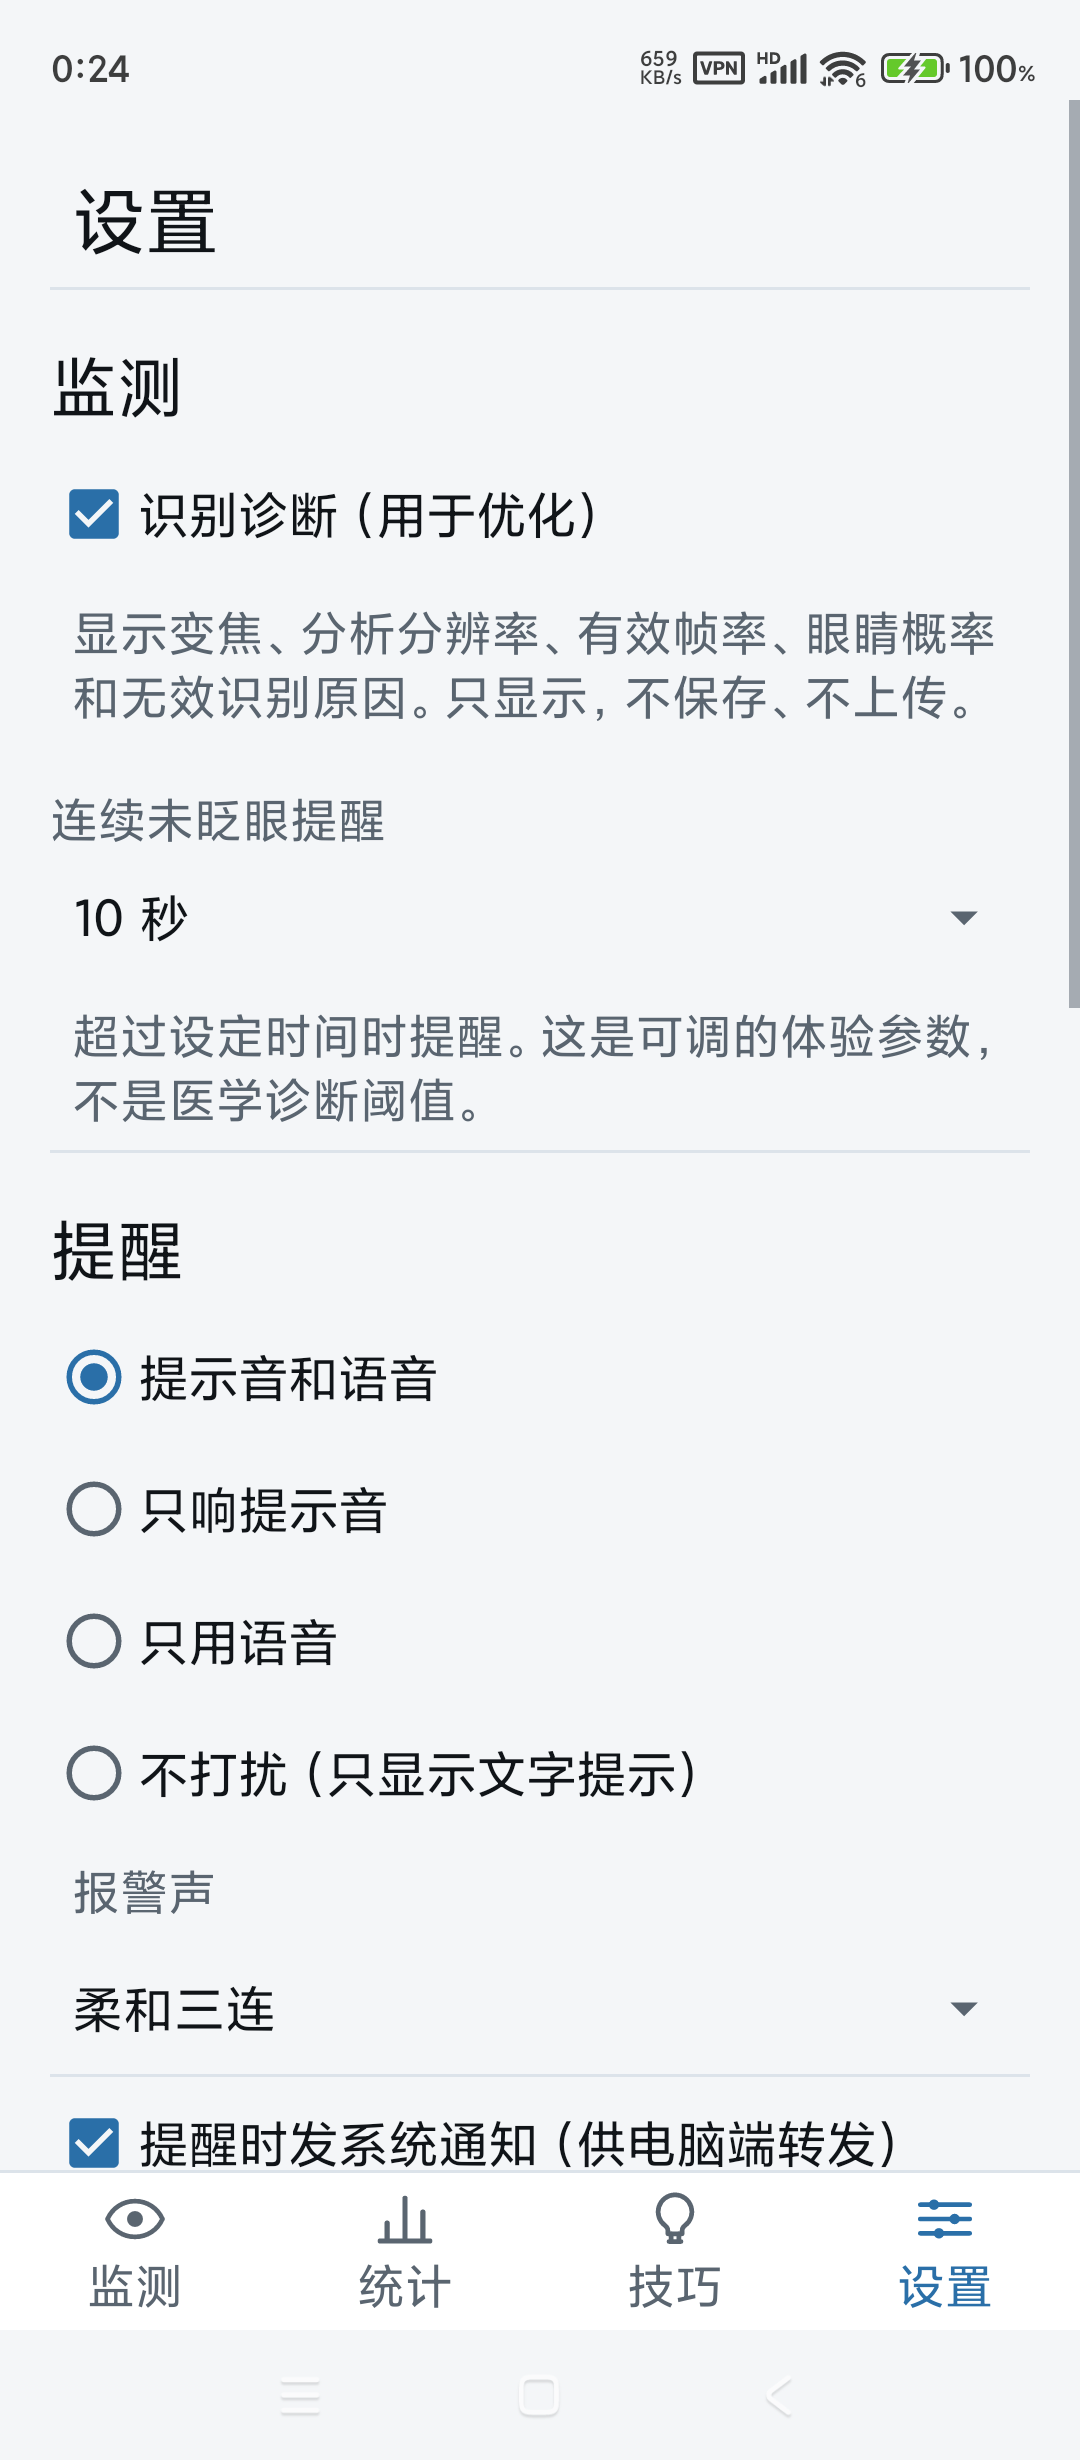
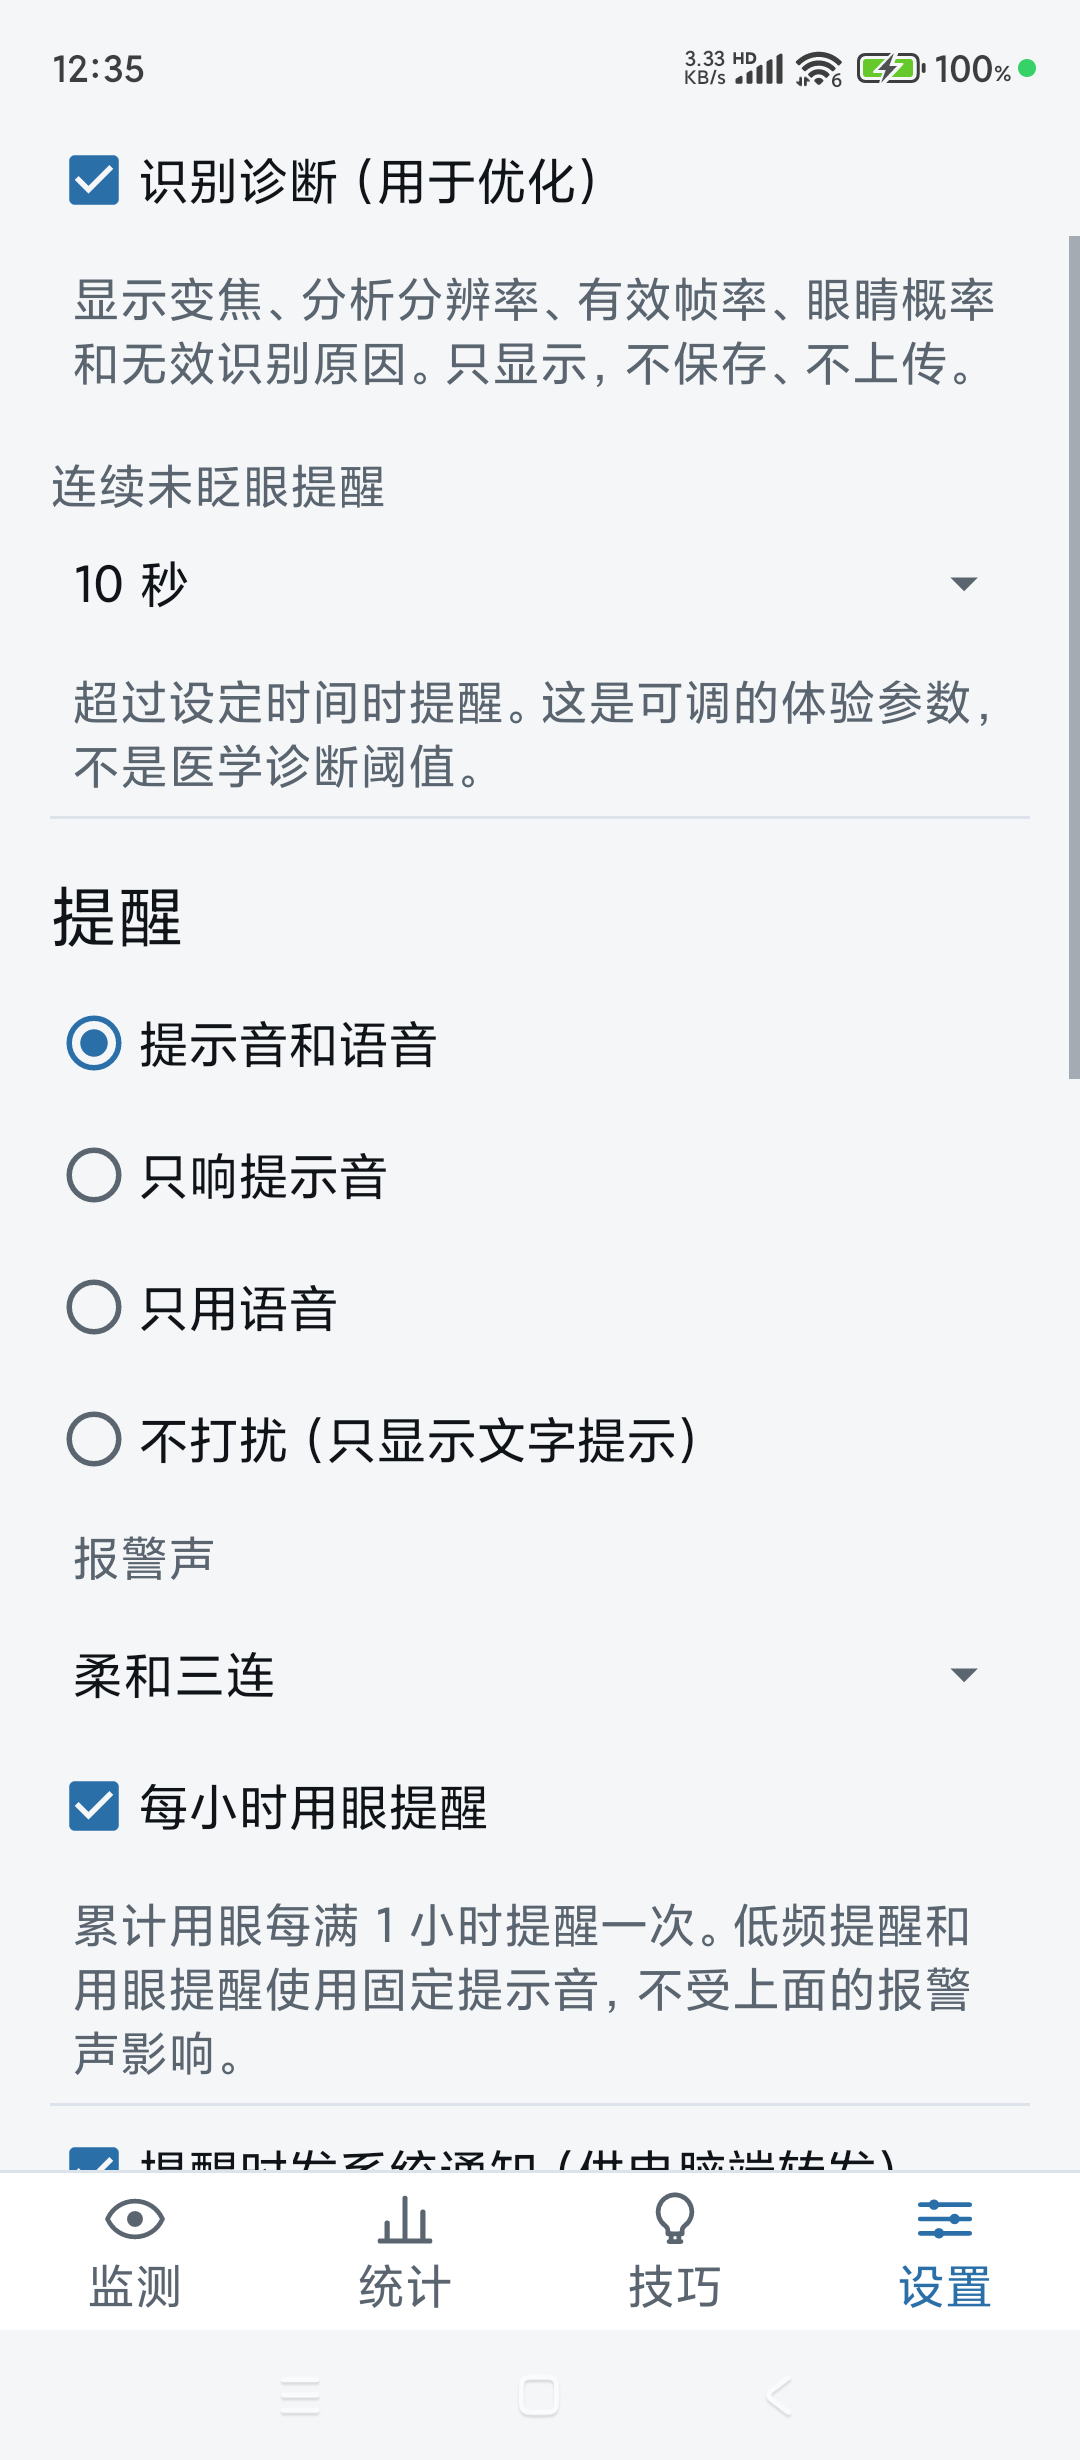
feat: 同步 1.1.0——新版蒲公英二维码、1.1.0 真机界面图与用眼时长文案
- 蒲公英二维码换成本轮重新生成的那张：内容仍是应用固定页
  https://www.pgyer.com/zhayanshouhu，扫码进入后始终是最新版本
  （现为 1.1.0 build 2），不会停在旧包上；
- 三张界面图换成 1.1.0 真机截图：监测页含「今日用眼时长」卡、统计页含
  独立的用眼时长柱状图、设置页含「每小时用眼提醒」开关，均在相机画面收起的
  状态下拍摄、不含正脸；
- 文案补齐本轮能力：「两类提醒」改为「三类提醒」（未眨眼／低频／用眼满
  N 小时，各有不同颜色、声音与语气），「用眼趋势」卡合并为「用眼趋势与用眼
  时长」并说明只统计镜头里有一张朝屏幕的脸的时间、离开画面自动停表；
  hero 文案、meta description 与小节导语同步，顶部标注当前版本 1.1.0；
- 界面预览的三条图注同步为新界面内容。

diff --git a/index.html b/index.html
@@ -4,7 +4,7 @@
 <meta charset="UTF-8">
 <meta name="viewport" content="width=device-width, initial-scale=1.0">
 <title>眨眼守护 BlinkGuard｜本地眨眼识别与用眼提醒</title>
-<meta name="description" content="把闲置的安卓手机架在显示器旁，用前置摄像头在手机本地识别完整眨眼；盯屏太久没眨眼就响一声、说一句「眨眨眼」。画面不上传、不保存、不联网。">
+<meta name="description" content="把闲置的安卓手机架在显示器旁，用前置摄像头在手机本地识别完整眨眼；盯屏太久没眨眼就响一声、说一句「眨眨眼」，还能记下每天真实的用眼时长。画面不上传、不保存、不联网。">
 <meta name="theme-color" content="#2A6FA8">
 <style>
   :root{
@@ -68,10 +68,10 @@
     <div>
       <span class="eyebrow">● 本地识别 · 不上传画面</span>
       <h1>把闲置手机架在显示器旁，<br>替你盯着眨眼</h1>
-      <p class="lead">用前置摄像头在手机本地识别你的完整眨眼。盯屏太久没眨眼，就响一声、说一句「眨眨眼」，并把每天的用眼趋势记下来。不是医疗器械，不产出健康评分。</p>
+      <p class="lead">用前置摄像头在手机本地识别你的完整眨眼。盯屏太久没眨眼，就响一声、说一句「眨眨眼」；同时记下你每天真实的用眼时长，看久了该歇时提醒你。不是医疗器械，不产出健康评分。</p>
       <div class="hero-actions">
         <a class="btn-primary" href="#download">获取安卓版</a>
-        <span class="meta">Android · 无需登录 · 画面不出手机</span>
+        <span class="meta">Android · 无需登录 · 画面不出手机 · 版本 1.1.0</span>
       </div>
     </div>
     <div class="qr-card" id="download">
@@ -82,12 +82,12 @@
 
   <section>
     <h2>它能做什么</h2>
-    <p class="sub">从数眨眼到提醒，再到每天的用眼统计，一条完整闭环，全部在手机本地完成。</p>
+    <p class="sub">从数眨眼到分级提醒，再到每天的用眼时长与用眼趋势，一条完整闭环，全部在手机本地完成。</p>
     <div class="grid">
       <div class="card"><div class="ic"><svg viewBox="0 0 24 24"><path d="M2 12s3.5-6 10-6 10 6 10 6-3.5 6-10 6-10-6-10-6z"/><circle cx="12" cy="12" r="3"/></svg></div><h3>只数完整眨眼</h3><p>只有「闭眼—睁开」才算一次，短暂跳变不计数；一只眼识别不到时，用另一只眼兜底。</p></div>
-      <div class="card"><div class="ic"><svg viewBox="0 0 24 24"><circle cx="12" cy="12" r="9"/><path d="M12 7v5l3 2"/></svg></div><h3>两类提醒</h3><p>超过阈值没眨眼就提醒（默认 10 秒，可选 5/10/15/20 秒）；最近 60 秒眨眼少于 8 次时再给一次低频提醒。</p></div>
+      <div class="card"><div class="ic"><svg viewBox="0 0 24 24"><circle cx="12" cy="12" r="9"/><path d="M12 7v5l3 2"/></svg></div><h3>三类提醒</h3><p>超过阈值没眨眼就提醒（默认 10 秒，可选 5/10/15/20 秒）；最近 60 秒眨眼少于 8 次时再给一次低频提醒；用眼每满 1 小时给一次安静的整点提醒。三者各有不同的颜色、声音与语气。</p></div>
       <div class="card"><div class="ic"><svg viewBox="0 0 24 24"><path d="M4 9v6h4l5 4V5L8 9H4z"/><path d="M17 9a4 4 0 0 1 0 6"/></svg></div><h3>听得见的提醒</h3><p>提示音、中文语音「眨眨眼」、静音文字通知三种方式可选，也能组合；提醒之间有冷却，不会连续轰炸。</p></div>
-      <div class="card"><div class="ic"><svg viewBox="0 0 24 24"><path d="M5 20V10M12 20V4M19 20v-7"/></svg></div><h3>用眼趋势</h3><p>今天按 24 小时、近 7 天与近 30 天按日看：未眨眼提醒与低频提醒叠在同一根柱子上，另有 KPI 卡、一句话洞察与占比环。</p></div>
+      <div class="card"><div class="ic"><svg viewBox="0 0 24 24"><path d="M5 20V10M12 20V4M19 20v-7"/></svg></div><h3>用眼趋势与用眼时长</h3><p>提醒分布按今天 24 小时、近 7 天与近 30 天看，未眨眼与低频提醒叠在同一根柱子上，另有 KPI 卡与占比环；用眼时长单独一张图，只统计镜头里有一张朝屏幕的脸的时间，离开画面自动停表。</p></div>
       <div class="card"><div class="ic"><svg viewBox="0 0 24 24"><path d="M12 3v3M12 18v3M3 12h3M18 12h3M5.6 5.6l2.1 2.1M16.3 16.3l2.1 2.1M18.4 5.6l-2.1 2.1M7.7 16.3l-2.1 2.1"/><circle cx="12" cy="12" r="3"/></svg></div><h3>护眼小技巧</h3><p>4 条带来源标签的护眼技巧，配「今天已尝试 x/4」进度与 20 秒远眺计时练习。</p></div>
       <div class="card"><div class="ic"><svg viewBox="0 0 24 24"><path d="M3 8h18v10H3z"/><path d="M7 8V5h10v3M7 13h4"/></svg></div><h3>戴眼镜也认得</h3><p>分析画面最高 1280×960，支持 1.0/1.2/1.5× 变焦；30–40° 侧看时按较闭合的那只眼判断。</p></div>
     </div>
@@ -97,9 +97,9 @@
     <h2>界面预览</h2>
     <p class="sub">真机截图。</p>
     <div class="shots">
-      <figure class="phone"><img src="./img/monitor.png" alt="监测页" width="1080" height="2460" loading="lazy"><figcaption>监测 · 实时眨眼计数与今日建议</figcaption></figure>
-      <figure class="phone"><img src="./img/stats.png" alt="用眼统计页" width="1080" height="2460" loading="lazy"><figcaption>统计 · 提醒分布、KPI 与占比环</figcaption></figure>
-      <figure class="phone"><img src="./img/settings.png" alt="设置页" width="1080" height="2460" loading="lazy"><figcaption>设置 · 提醒方式、阈值与识别诊断</figcaption></figure>
+      <figure class="phone"><img src="./img/monitor.png" alt="监测页" width="1080" height="2460" loading="lazy"><figcaption>监测 · 今日用眼时长、实时眨眼计数与今日建议</figcaption></figure>
+      <figure class="phone"><img src="./img/stats.png" alt="用眼统计页" width="1080" height="2460" loading="lazy"><figcaption>统计 · 提醒分布、用眼时长独立柱图与 KPI</figcaption></figure>
+      <figure class="phone"><img src="./img/settings.png" alt="设置页" width="1080" height="2460" loading="lazy"><figcaption>设置 · 报警声、每小时用眼提醒与识别诊断</figcaption></figure>
     </div>
   </section>
 
